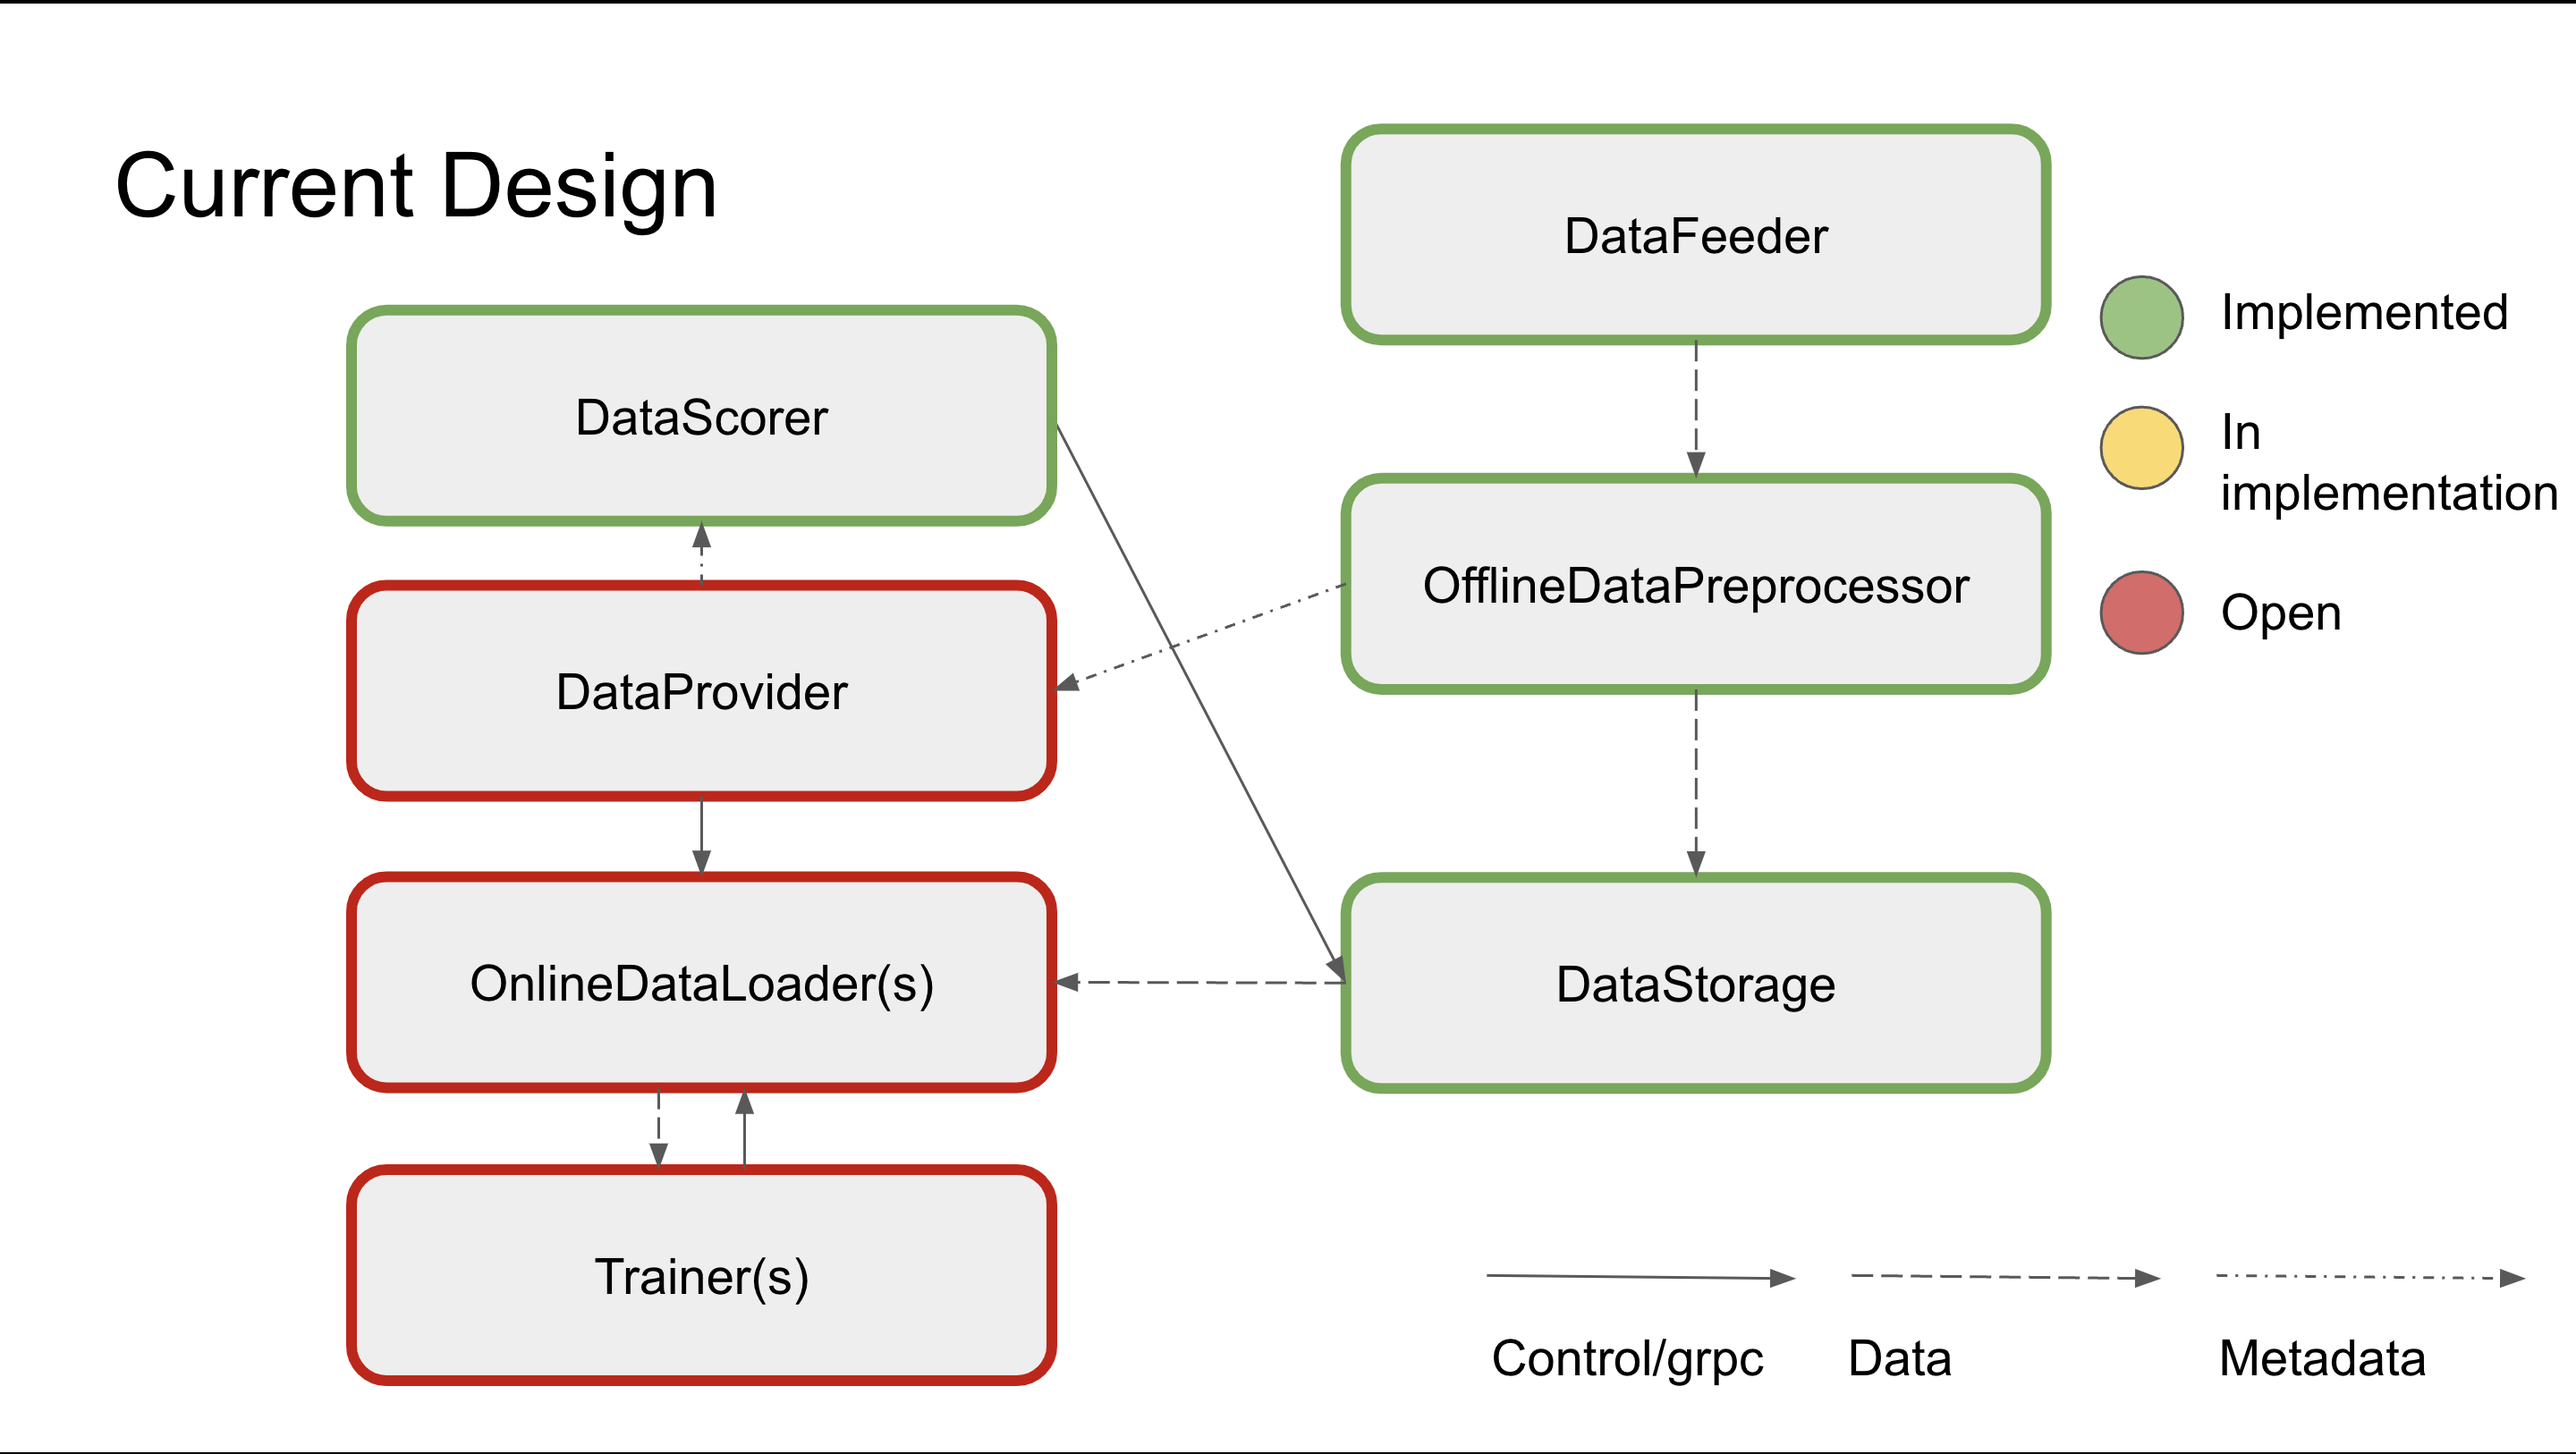
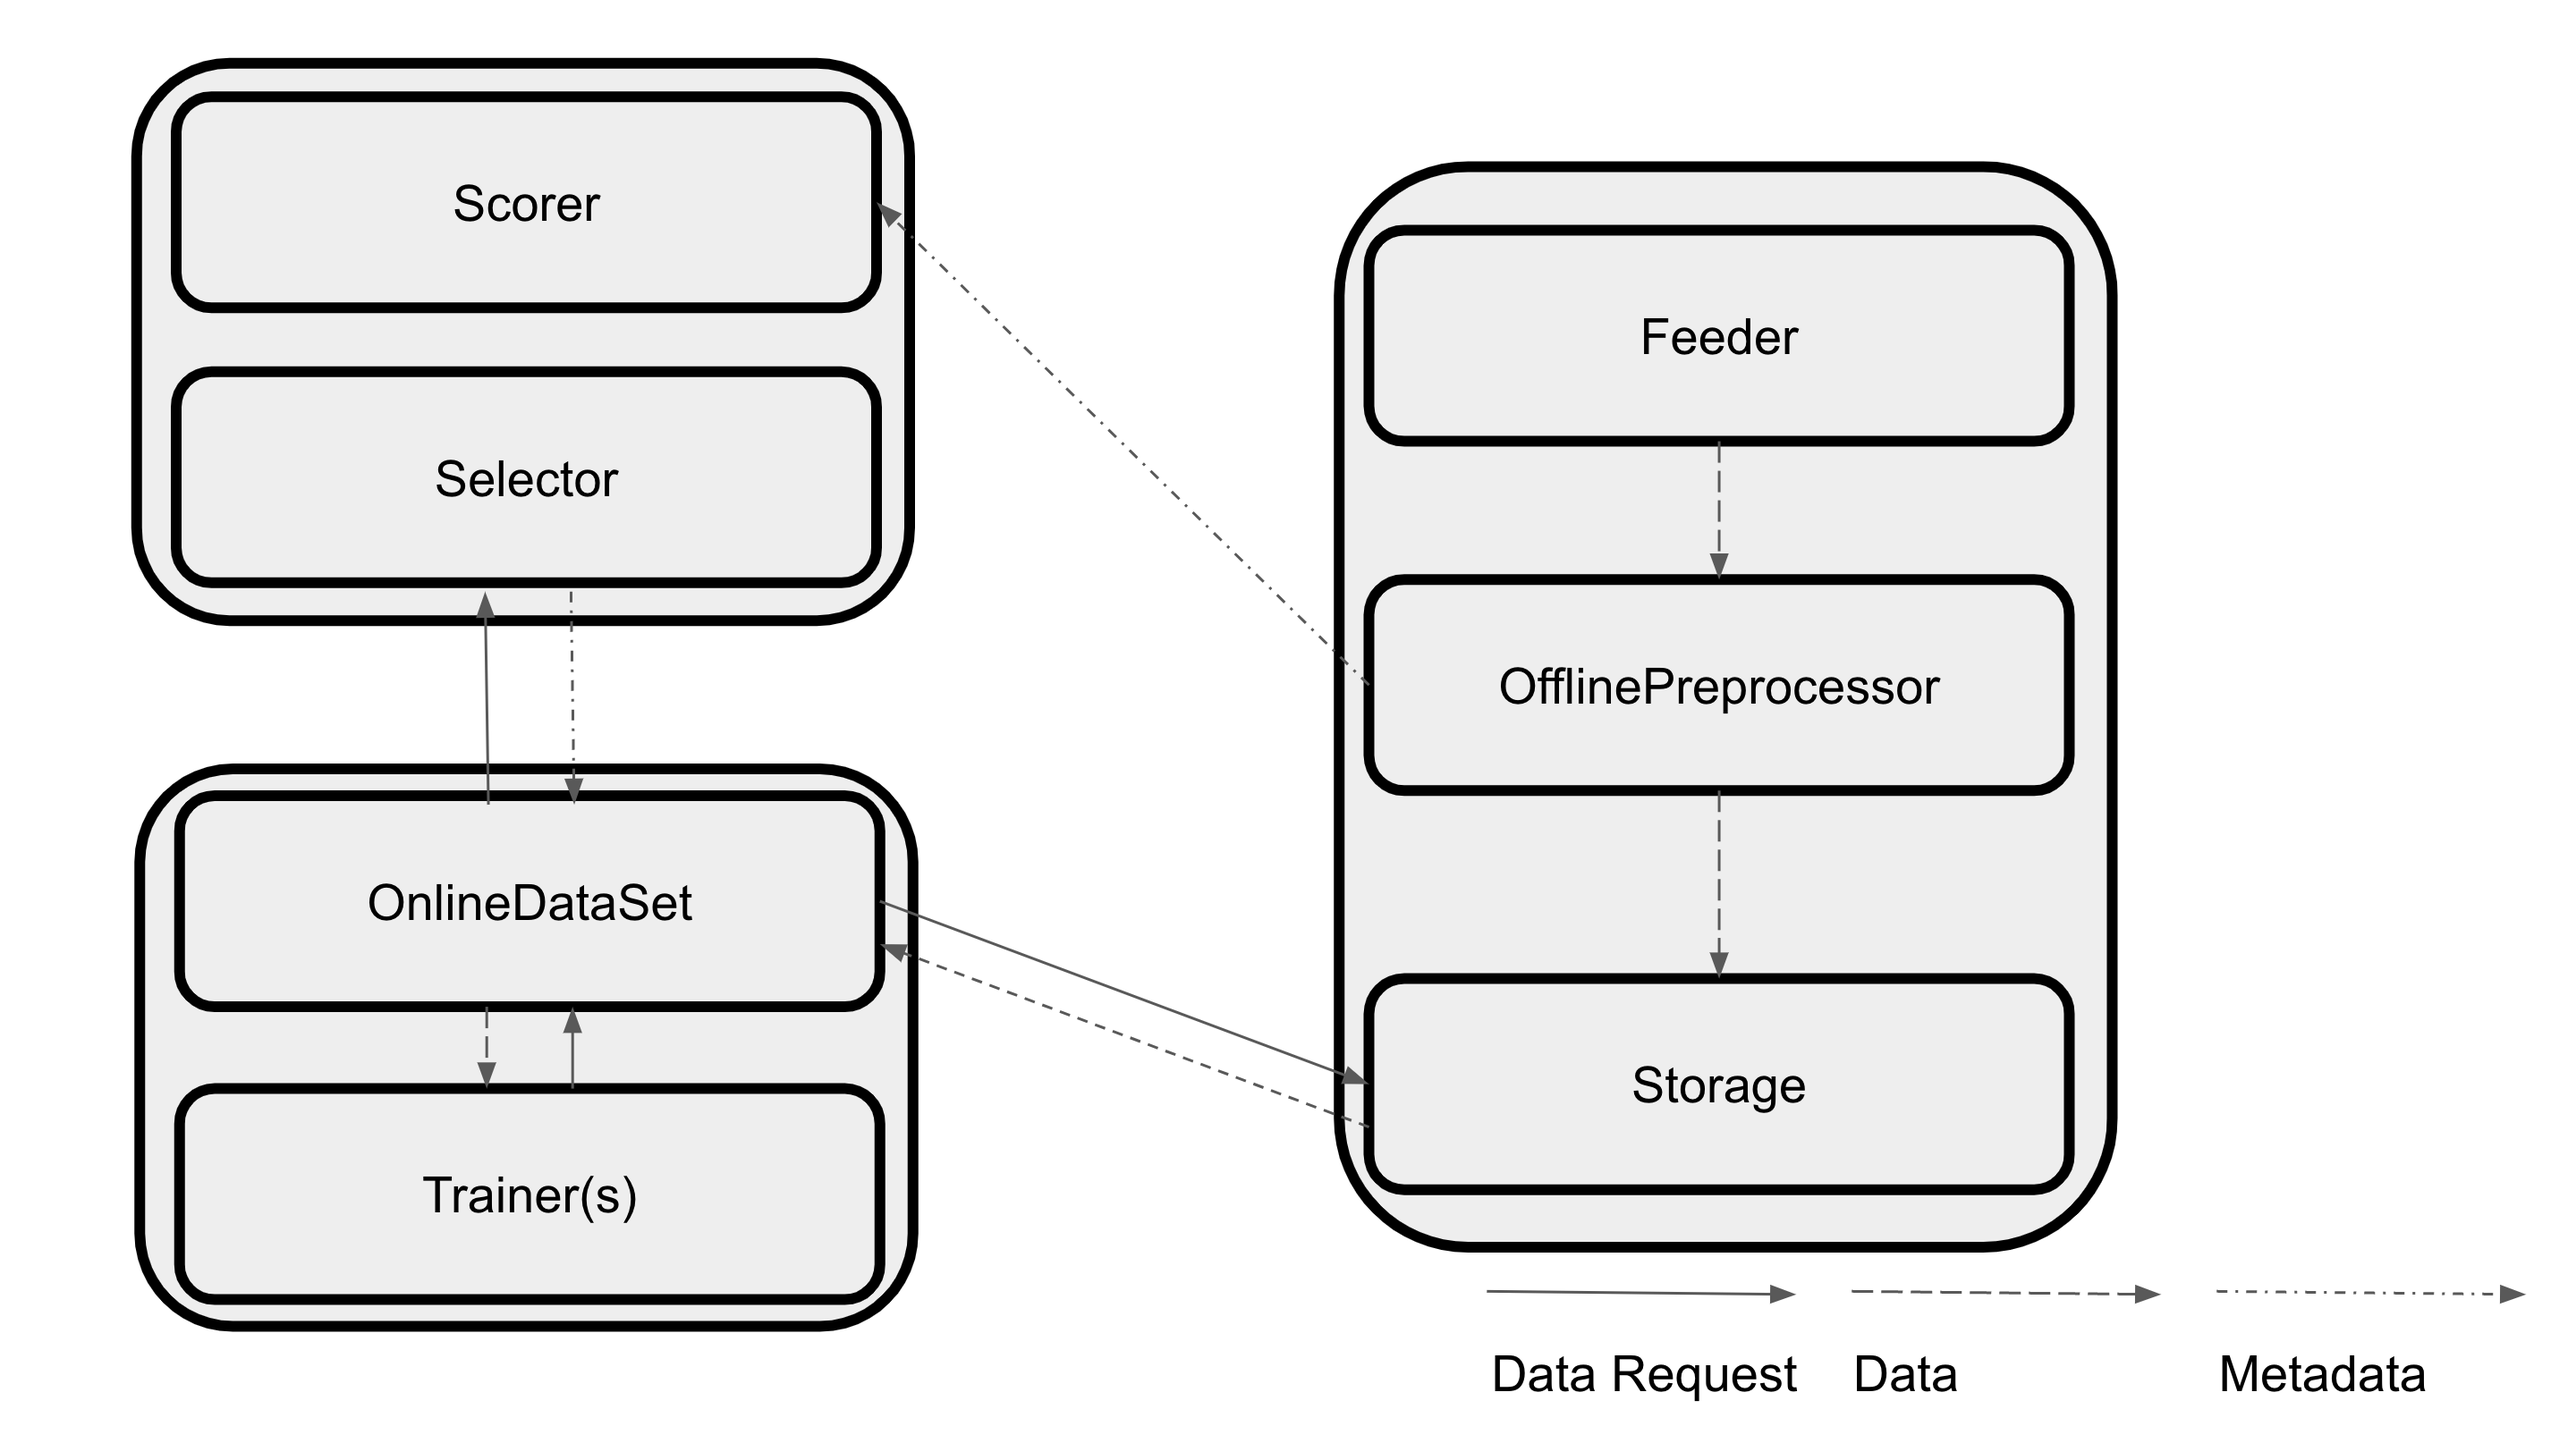
Update documentation

diff --git a/README.md b/README.md
@@ -1,10 +1,5 @@
 # Dynamic Datasets DSL Project
 
-## Datasets:
-
-### Avazu Dataset:
-- Full training dataset [here](https://polybox.ethz.ch/index.php/apps/files/?dir=/DSL&fileid=3018496834)
-
 ## Dynamic Datasets Testing Infrastructure:
 
 ### Requirements:
@@ -15,7 +10,11 @@
 
 ### Current state:
 
-![Current state diagram](docs/images/Current_design.png)
+![Current node and class diagram](docs/images/Current_Design.png)
+
+### Current state in a pipeline view:
+
+![Current pipeline diagram](docs/images/Pipeline.png)
 
 - DataFeeder feeds the defined file in defined batch sizes to the Kafka stream
 - DataPreprocessor reads the data, does some minimal offline preprocessing, writes the batch to harddisk, updates the metadata and every now and then creates new batches from the existing batches
